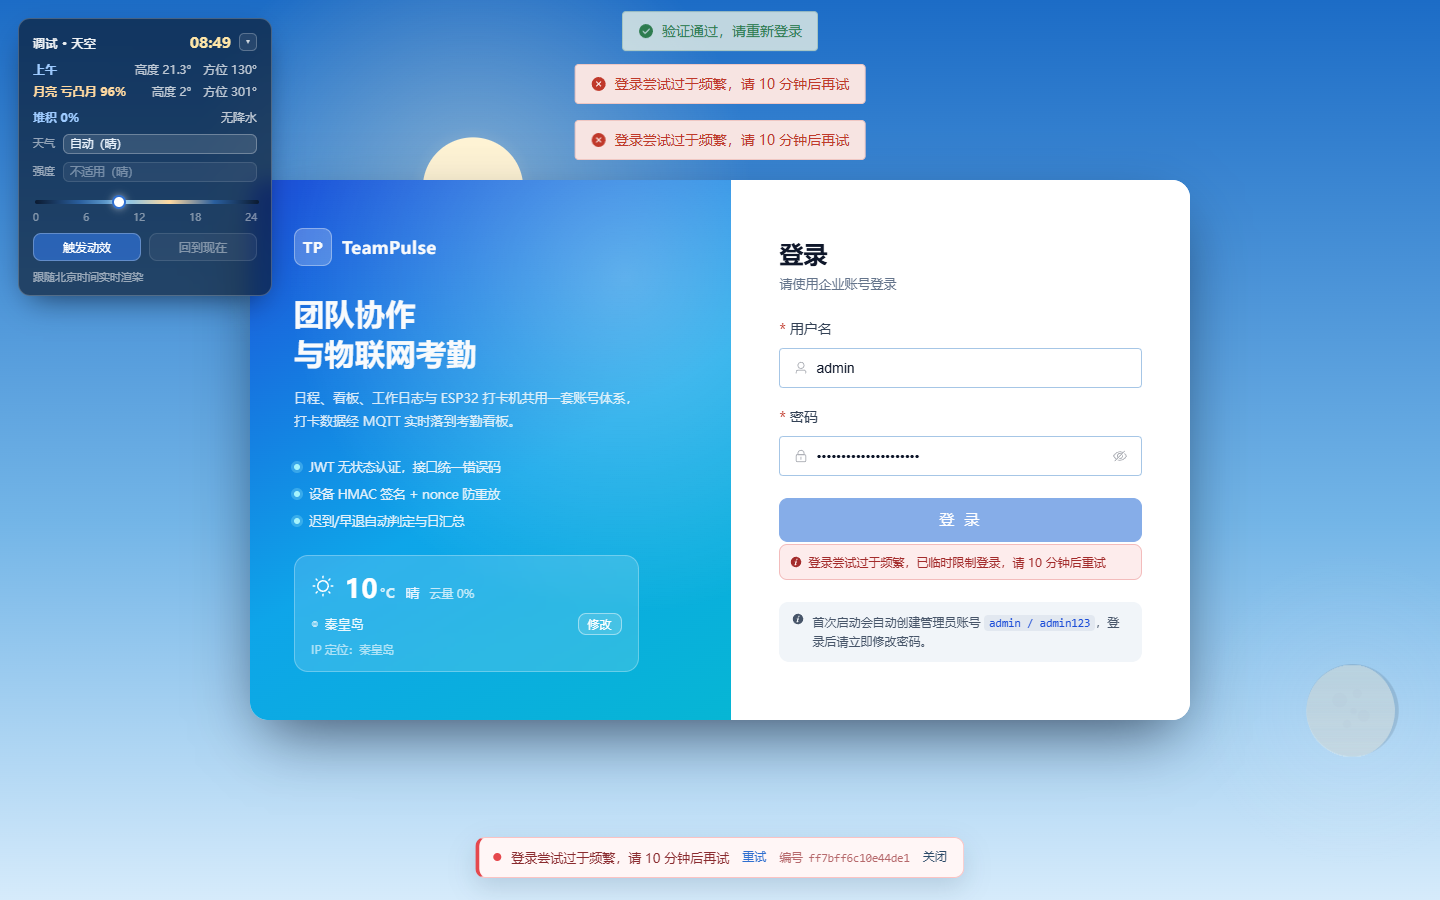
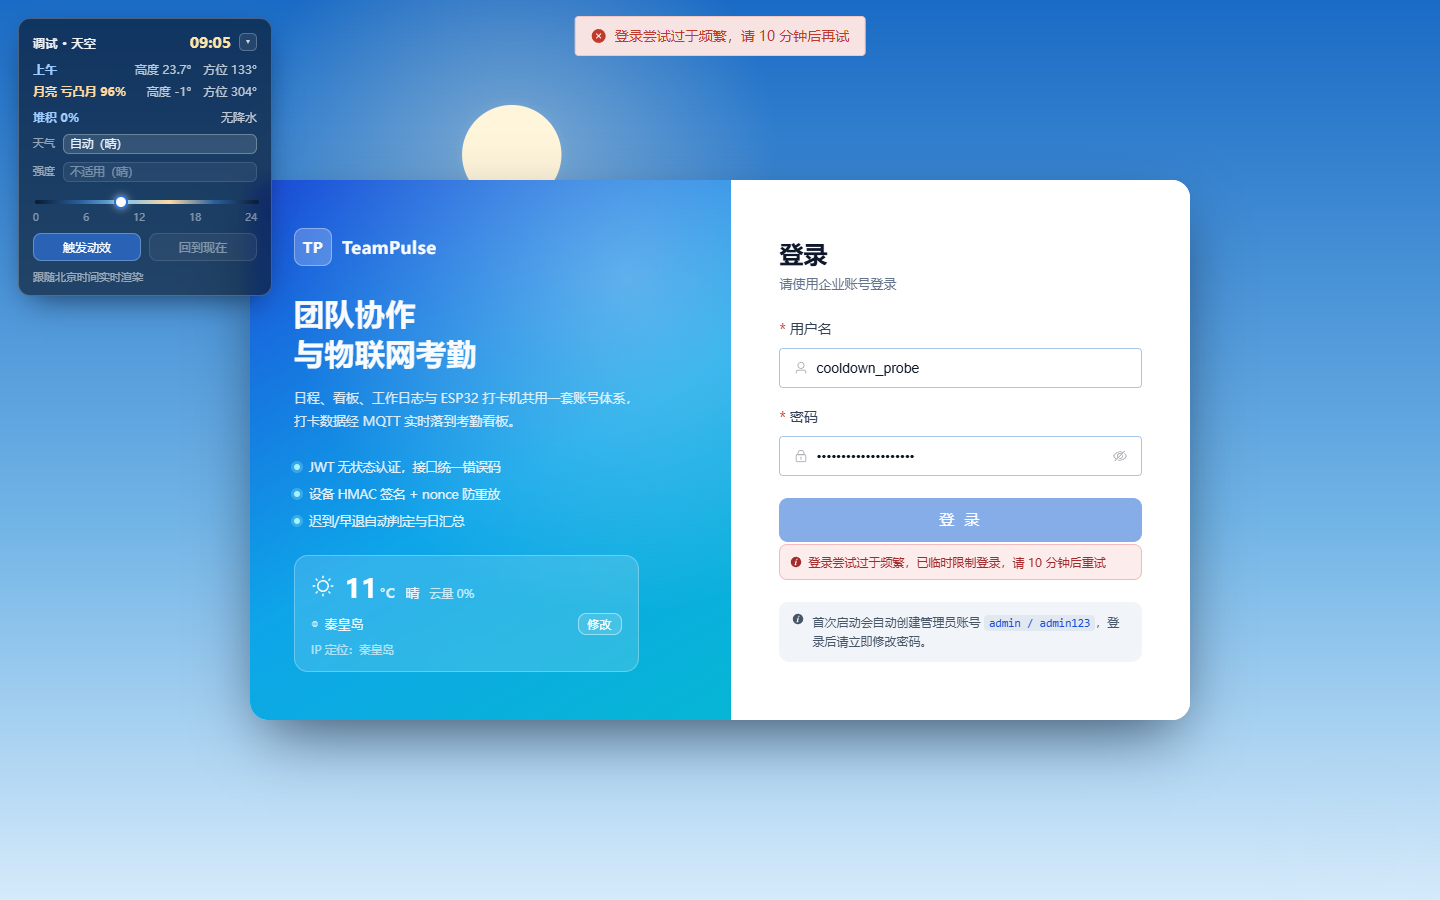
fix(login-security): 触发验证码后前端本地拦截点击，导致 IP 计数不增长、10 分钟拉黑永远到不了
## 现象
用户反馈「没触发冷却」。实测复现：触发验证码后，前端在 `handleLogin()` 里
直接 `打开弹窗 + return`，**请求根本没发出去** → 后端不累计失败 → 计数卡在 5，
10 次拉黑线永远达不到。（我之前能测出来，是因为测试脚本每次都解了验证码、
带着 ticket 发了真实请求。）

## 修法
1. 去掉本地拦截：验证码触发后仍然照常发登录请求（可能不带 ticket），
   由后端 40101 分支累计失败次数；前端收到 40101 再弹新题。
2. 只在「已确认被拉黑」（40103）时本地短路，避免无意义请求。
3. 429/423 不再重复提示：`http.js` 对登录接口的 423/429 跳过 toast 与
   「网络错误」横幅（登录页自己给针对性提示）；40101 也不再额外 warning。

## 一并修掉的显示问题
- 倒计时 600.4s 用 `Math.ceil(/60)` 会显示「11 分钟」→ 改为 `blockedMinutes = round(...)`
- 自己插注释时把 `else if` 吃掉导致构建失败（`Unexpected token`），已修正

## 实测（线上，全程不解验证码，只反复点登录）
```
第 1~4 次：请求=1，弹窗=N            （40100 密码错误）
第 5~10 次：请求=1，弹窗=Y           （423 要求验证码，均计入失败）
第 11 次：请求=1，弹窗=N，拉黑=Y      （40103）
提示：登录尝试过于频繁，已临时限制登录，请 10 分钟后重试
按钮：禁用，倒计时显示 10 分钟（不再是 11）
```

diff --git a/frontend/src/views/Login.vue b/frontend/src/views/Login.vue
@@ -152,7 +152,7 @@
 
           <div v-if="isBlocked" class="block-tip">
             <el-icon><InfoFilled /></el-icon>
-            登录尝试过于频繁，已临时限制登录，请 {{ Math.ceil(blockedSeconds / 60) }} 分钟后重试
+            登录尝试过于频繁，已临时限制登录，请 {{ blockedMinutes }} 分钟后重试
           </div>
 
           <div v-else-if="captchaTriggered" class="forgot-tip">
@@ -260,6 +260,8 @@ const nowTick = ref(Date.now())
 
 /** 拉黑剩余秒数 */
 const blockedSeconds = computed(() => Math.max(0, Math.ceil((blockedUntil.value - nowTick.value) / 1000)))
+/** 展示用分钟数：四舍五入，避免 600.4s 被算成 11 分钟 */
+const blockedMinutes = computed(() => Math.max(1, Math.round(blockedSeconds.value / 60)))
 const isBlocked = computed(() => blockedSeconds.value > 0)
 const captchaRef = ref(null)
 
@@ -349,16 +351,13 @@ async function handleLogin() {
   // ① IP 被拉黑中：直接提示，不发请求
   if (isBlocked.value) {
     flashLoginError()
-    ElMessage.error(`登录尝试过于频繁，请 ${Math.ceil(blockedSeconds.value / 60)} 分钟后再试`)
+    ElMessage.error(`登录尝试过于频繁，请 ${blockedMinutes.value} 分钟后再试`)
     return
   }
 
-  // ② 已经触发过验证码：每次登录都要先过一道新题
-  if (captchaTriggered.value && !captchaTicket.value) {
-    flashLoginError()
-    captchaOpen.value = true
-    return
-  }
+  // ② 已触发过验证码时不再本地拦截：照常发请求（可能没有 ticket），
+  //    让后端把这次失败计入 IP 计数，否则 10 次拉黑永远触发不到。
+  //    没有 ticket 时后端会返回 40101，前端收到后再弹新题。
 
   // ② 表单没填/格式不对：同样算一次"点了没进去"，变红并计数
   const valid = await formRef.value?.validate().catch(() => false)
@@ -391,10 +390,10 @@ async function handleLogin() {
       blockedUntil.value = Date.now() + minutes * 60 * 1000
       ElMessage.error(`登录尝试过于频繁，请 ${minutes} 分钟后再试`)
     } else if (error?.code === 40101 || error?.code === 423) {
-      // 服务端要求验证码：保持粘性，下次点登录会直接弹新题
+      // 40101：只弹验证码，不额外提示（避免和拦截器重复）
+      // 服务端要求验证码：被动弹出新题（说明这次请求已被计入失败次数）
       captchaTriggered.value = true
       captchaOpen.value = true
-      ElMessage.warning('连续登录失败，请先完成安全验证')
     } else if (failCount.value >= CAPTCHA_THRESHOLD) {
       captchaTriggered.value = true
       captchaOpen.value = true

diff --git a/frontend/src/api/http.js b/frontend/src/api/http.js
@@ -163,7 +163,10 @@ http.interceptors.response.use(
       }
       return Promise.reject(new BizError('没有该操作的权限', 40300))
     }
-    if (!error.config?.silent) {
+    // 423（需要验证码）/ 429（限流拉黑）是预期业务分支：
+    // 登录页自己会给出针对性提示，这里不再弹 toast、也不弹「网络错误」横幅
+    const isExpectedGuard = (status === 423 || status === 429) && isLoginRequest(error.config)
+    if (!error.config?.silent && !isExpectedGuard) {
       ElMessage.error(message)
       reportNetError(message, retryOf(error.config), traceOf(error.response))
     }
